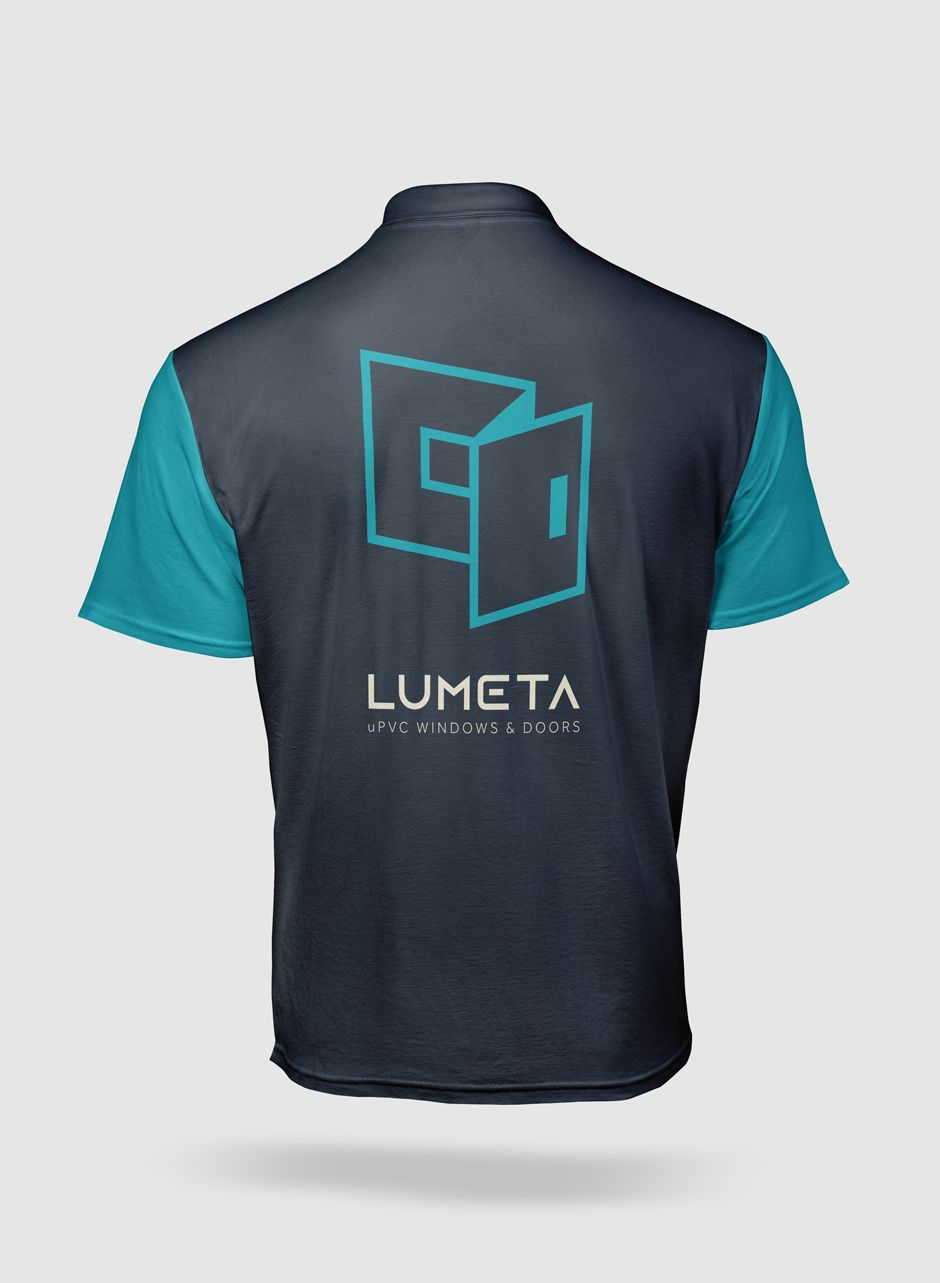
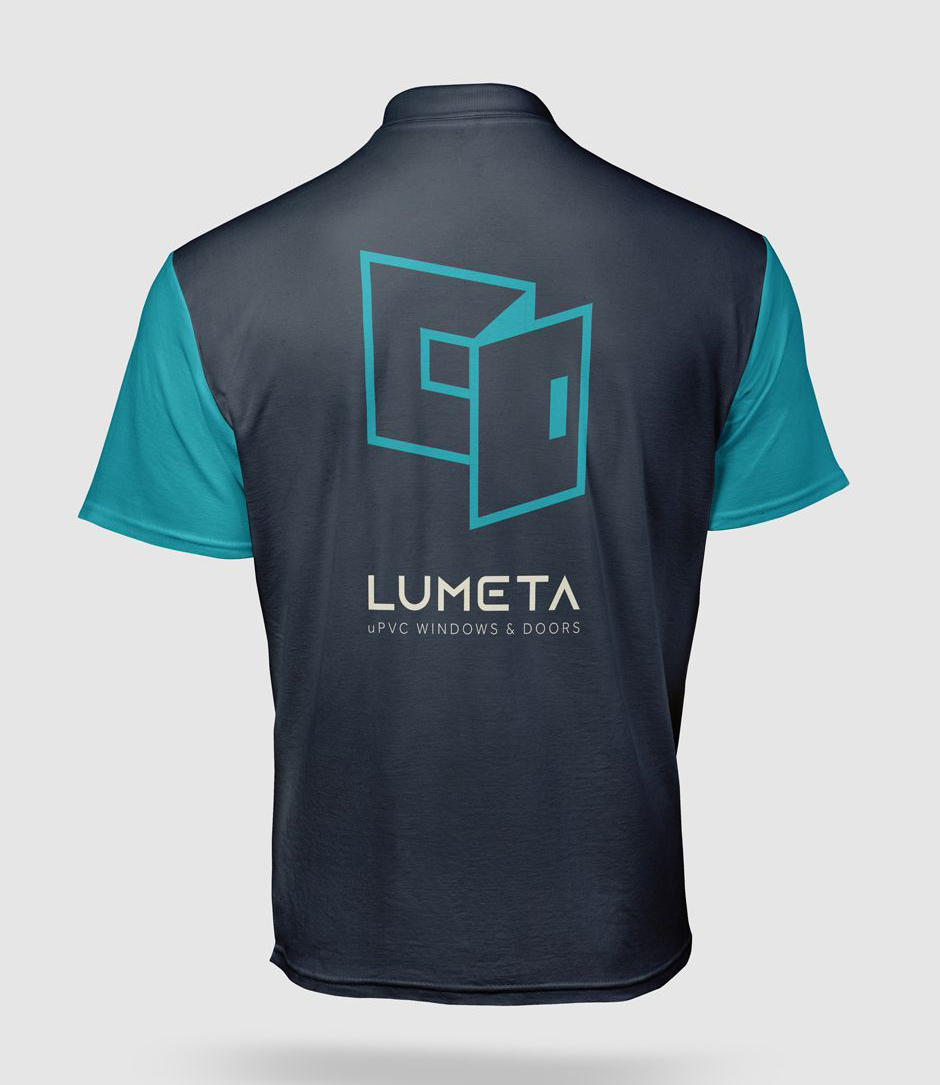
update

diff --git a/lumeta.html b/lumeta.html
@@ -186,7 +186,7 @@
                                                                             <div class="cbp-item col-lg-6">
                                                                                 <div class="cbp-caption-defaultWrap">
                                                                                     <img
-                                                                                        src="assets/images/portfolio/projects/Lumeta/lumeta-social2.jpeg"
+                                                                                        src="assets/images/portfolio/projects/Lumeta/lumeta-book.jpg"
                                                                                         class="portfolio-media-image"
                                                                                         alt="Lumeta"
                                                                                     />